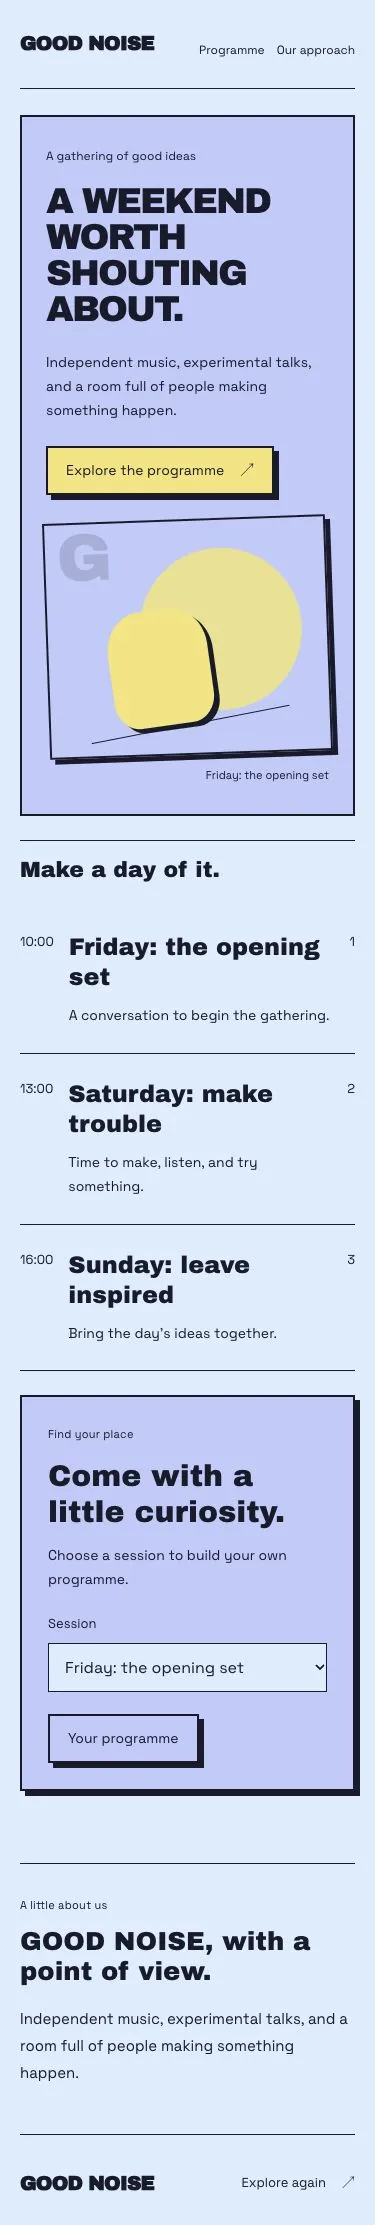
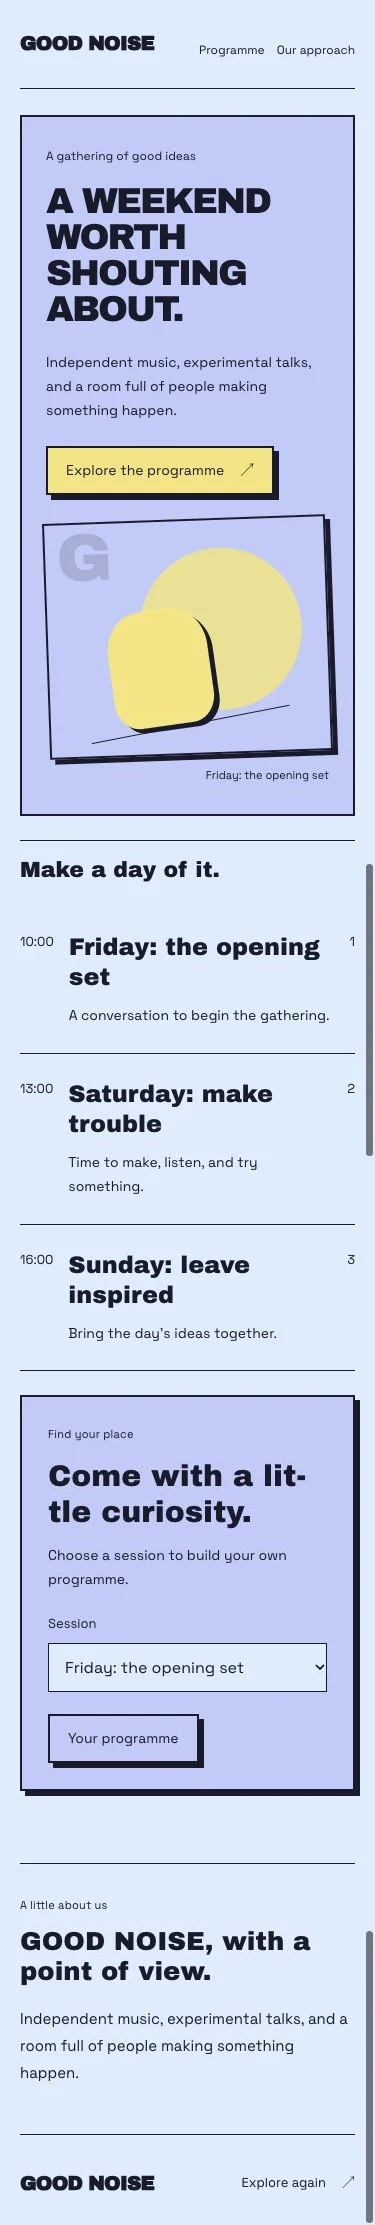
Refresh neo-brutalism references and synchronize its reusable skill assets.

diff --git a/skills/designkit-neo-brutalism/assets/shared/KitControls.tsx b/skills/designkit-neo-brutalism/assets/shared/KitControls.tsx
@@ -1,11 +1,14 @@
 "use client";
-
 import {
   useEffect,
   useId,
   useRef,
+  useState,
   type ButtonHTMLAttributes,
   type InputHTMLAttributes,
+  type HTMLAttributes,
+  type DialogHTMLAttributes,
+  type MouseEvent,
   type ReactNode,
 } from "react";
 
@@ -26,15 +29,16 @@ export function KitCard({
   label,
   children,
   action,
-}: {
-  title: string;
-  label?: string;
-  children?: ReactNode;
+  className = "",
+  ...props
+}: Omit<HTMLAttributes<HTMLElement>, "title"> & {
+  title: ReactNode;
+  label?: ReactNode;
   action?: ReactNode;
 }) {
   return (
-    <article className="kit-card">
-      <span className="kit-label">{label}</span>
+    <article {...props} className={`kit-card ${className}`}>
+      {label ? <span className="kit-label">{label}</span> : null}
       <h3>{title}</h3>
       {children}
       {action ? <div className="kit-card-action">{action}</div> : null}
@@ -44,18 +48,38 @@ export function KitCard({
 export function KitNavigation({
   brand,
   links,
-}: {
+  onNavigate,
+  className = "",
+  ...props
+}: HTMLAttributes<HTMLElement> & {
   brand: string;
   links: { label: string; href: string }[];
+  onNavigate?: (href: string, event: MouseEvent<HTMLAnchorElement>) => void;
 }) {
   return (
-    <nav className="kit-navigation" aria-label={`${brand} example navigation`}>
-      <a className="kit-brand" href={links[0]?.href}>
-        {brand}
-      </a>
+    <nav
+      {...props}
+      className={`kit-navigation ${className}`}
+      aria-label={props["aria-label"] || `${brand} navigation`}
+    >
+      {links[0]?.href ? (
+        <a
+          className="kit-brand"
+          href={links[0].href}
+          onClick={(event) => onNavigate?.(links[0].href, event)}
+        >
+          {brand}
+        </a>
+      ) : (
+        <span className="kit-brand">{brand}</span>
+      )}
       <div>
-        {links.map((link) => (
-          <a key={link.label} href={link.href}>
+        {links.map((link, index) => (
+          <a
+            key={`${link.href}:${index}`}
+            href={link.href}
+            onClick={(event) => onNavigate?.(link.href, event)}
+          >
             {link.label}
           </a>
         ))}
@@ -69,16 +93,20 @@ export function KitField({
   id,
   ...props
 }: InputHTMLAttributes<HTMLInputElement> & { label: string; error?: string }) {
-  const generated = useId();
-  const fieldId = id || generated;
+  const generated = useId(),
+    fieldId = id || generated;
+  const describedBy =
+    [props["aria-describedby"], error ? `${fieldId}-error` : undefined]
+      .filter(Boolean)
+      .join(" ") || undefined;
   return (
     <div className="kit-field">
       <label htmlFor={fieldId}>{label}</label>
       <input
         {...props}
         id={fieldId}
-        aria-invalid={Boolean(error)}
-        aria-describedby={error ? `${fieldId}-error` : undefined}
+        aria-invalid={error ? true : props["aria-invalid"]}
+        aria-describedby={describedBy}
       />
       {error ? (
         <p id={`${fieldId}-error`} className="kit-field-error">
@@ -91,43 +119,100 @@ export function KitField({
 export function KitStatus({
   state,
   children,
-}: {
+  className = "",
+  ...props
+}: HTMLAttributes<HTMLParagraphElement> & {
   state: "loading" | "empty" | "error" | "success";
-  children: ReactNode;
 }) {
   return (
     <p
-      className={`kit-status kit-status-${state}`}
-      role={state === "error" ? "alert" : "status"}
+      {...props}
+      className={`kit-status kit-status-${state} ${className}`}
+      role={props.role || (state === "error" ? "alert" : "status")}
     >
       {children}
     </p>
   );
 }
+const bodyLocks = new WeakMap<
+  HTMLElement,
+  { count: number; overflow: string }
+>();
+function lockBody(body: HTMLElement) {
+  const lock = bodyLocks.get(body) || {
+    count: 0,
+    overflow: body.style.overflow,
+  };
+  lock.count++;
+  bodyLocks.set(body, lock);
+  body.style.overflow = "hidden";
+  let released = false;
+  return () => {
+    if (released) return;
+    released = true;
+    lock.count--;
+    if (!lock.count) {
+      body.style.overflow = lock.overflow;
+      bodyLocks.delete(body);
+    }
+  };
+}
+type KitDialogProps = Omit<
+  DialogHTMLAttributes<HTMLDialogElement>,
+  "title" | "open"
+> & { title: ReactNode; trigger: ReactNode } & (
+    | { open?: undefined; onOpenChange?: (open: boolean) => void }
+    | { open: boolean; onOpenChange: (open: boolean) => void }
+  );
 export function KitDialog({
   trigger,
   title,
   children,
-}: {
-  trigger: string;
-  title: string;
-  children: ReactNode;
-}) {
-  const dialog = useRef<HTMLDialogElement>(null);
-  const opener = useRef<HTMLButtonElement>(null);
-  const previousOverflow = useRef<string | null>(null);
-  const titleId = useId();
-  const restore = () => {
-    if (previousOverflow.current !== null) {
-      document.body.style.overflow = previousOverflow.current;
-      previousOverflow.current = null;
-    }
-    opener.current?.focus({ preventScroll: true });
+  open,
+  onOpenChange,
+  className = "",
+  onClose,
+  onCancel,
+  ...props
+}: KitDialogProps) {
+  const dialog = useRef<HTMLDialogElement>(null),
+    opener = useRef<HTMLButtonElement>(null);
+  const previousFocus = useRef<HTMLElement | null>(null),
+    release = useRef<(() => void) | null>(null);
+  const [internalOpen, setInternalOpen] = useState(false);
+  const isOpen = open ?? internalOpen,
+    titleId = useId();
+  const request = (next: boolean) => {
+    if (open === undefined) setInternalOpen(next);
+    onOpenChange?.(next);
   };
+  const restore = () => {
+    release.current?.();
+    release.current = null;
+    const target = previousFocus.current?.isConnected
+      ? previousFocus.current
+      : opener.current;
+    if (target?.isConnected) target.focus({ preventScroll: true });
+    previousFocus.current = null;
+  };
+  useEffect(() => {
+    const element = dialog.current;
+    if (!element) return;
+    if (isOpen) {
+      if (!element.open) {
+        previousFocus.current ??=
+          document.activeElement instanceof HTMLElement
+            ? document.activeElement
+            : opener.current;
+        element.showModal();
+      }
+      if (!release.current) release.current = lockBody(document.body);
+    } else if (!isOpen && element.open) element.close();
+  }, [isOpen]);
   useEffect(
     () => () => {
-      if (previousOverflow.current !== null)
-        document.body.style.overflow = previousOverflow.current;
+      release.current?.();
+      release.current = null;
     },
     [],
   );
@@ -137,21 +222,27 @@ export function KitDialog({
         ref={opener}
         className="kit-button kit-button-secondary"
         type="button"
+        aria-haspopup="dialog"
         onClick={() => {
-          previousOverflow.current = document.body.style.overflow;
-          dialog.current?.showModal();
-          document.body.style.overflow = "hidden";
+          previousFocus.current = opener.current;
+          request(true);
         }}
       >
         {trigger}
       </button>
       <dialog
-        className="kit-dialog"
+        {...props}
+        className={`kit-dialog ${className}`}
         ref={dialog}
-        aria-labelledby={titleId}
-        onClose={restore}
+        aria-labelledby={props["aria-labelledby"] || titleId}
+        onCancel={(event) => onCancel?.(event)}
+        onClose={(event) => {
+          restore();
+          if (isOpen) request(false);
+          onClose?.(event);
+        }}
       >
-        <div>
+        <div className="kit-dialog-heading">
           <h3 id={titleId}>{title}</h3>
           <button
             type="button"

diff --git a/skills/designkit-neo-brutalism/assets/shared/ExampleCanvas.tsx b/skills/designkit-neo-brutalism/assets/shared/ExampleCanvas.tsx
@@ -1,6 +1,6 @@
 "use client";
 
-import { useId, useState, type CSSProperties } from "react";
+import { useId, useState, type CSSProperties, type MouseEvent } from "react";
 import type {
   DesignExample,
   PlaygroundSettings,
@@ -62,10 +62,19 @@ export default function ExampleCanvas({
     `${item.title} ${item.label}`.toLowerCase().includes(query.toLowerCase()),
   );
   const headline = normalized.headline;
-  const goToContent = () =>
-    document
-      .getElementById(sectionId)
-      ?.scrollIntoView({ behavior: "instant", block: "start" });
+  const focusSection = (id: string) => {
+    const target = document.getElementById(id);
+    target?.scrollIntoView({ behavior: "instant", block: "start" });
+    target?.focus({ preventScroll: true });
+  };
+  const navigateWithinExample = (
+    href: string,
+    event: MouseEvent<HTMLAnchorElement>,
+  ) => {
+    event.preventDefault();
+    focusSection(href.slice(1));
+  };
+  const goToContent = () => focusSection(sectionId);
   const contextLabel = {
     shop: "A considered collection",
     journal: "An independent journal",
@@ -90,6 +99,7 @@ export default function ExampleCanvas({
     >
       <KitNavigation
         brand={example.brand}
+        onNavigate={navigateWithinExample}
         links={[
           {
             label:
@@ -322,14 +332,17 @@ export default function ExampleCanvas({
           </>
         )}
       </section>
-      <section id={aboutId} className="kit-about">
+      <section id={aboutId} className="kit-about" tabIndex={-1}>
         <span className="kit-label">A little about us</span>
         <h3>{example.brand}, with a point of view.</h3>
         <p>{example.description}</p>
       </section>
       <footer className="kit-footer">
         <span className="kit-brand">{example.brand}</span>
-        <a href={`#${sectionId}`}>
+        <a
+          href={`#${sectionId}`}
+          onClick={(event) => navigateWithinExample(`#${sectionId}`, event)}
+        >
           Explore again <span aria-hidden="true">↗</span>
         </a>
       </footer>

diff --git a/skills/designkit-neo-brutalism/assets/shared/kit.css b/skills/designkit-neo-brutalism/assets/shared/kit.css
@@ -42,6 +42,7 @@
   font-family: var(--dk-heading), serif;
   font-synthesis: none;
   overflow-wrap: anywhere;
+  hyphens: auto;
 }
 .kit-canvas :is(button, a, input, select, textarea):focus-visible,
 .kit-component-surface :is(button, a, input, select, textarea):focus-visible {
@@ -353,6 +354,11 @@
   background: var(--dk-canvas);
 }
 .kit-dialog {
+  margin: auto;
+  max-height: calc(100dvh - 48px);
+  overflow: auto;
+  overscroll-behavior: contain;
+  overflow-wrap: anywhere;
   max-width: min(520px, calc(100vw - 40px));
   padding: 28px;
   color: var(--dk-ink);
@@ -365,7 +371,7 @@
 .kit-dialog::backdrop {
   background: rgb(0 0 0 / 0.45);
 }
-.kit-dialog > div {
+.kit-dialog-heading {
   display: flex;
   justify-content: space-between;
   gap: 20px;

diff --git a/skills/designkit-neo-brutalism/assets/shared/tokens.ts b/skills/designkit-neo-brutalism/assets/shared/tokens.ts
@@ -3,6 +3,7 @@ import type {
   PlaygroundSettings,
   StyleRecipe,
 } from "./types";
+import { kitVersion } from "./types";
 
 export const fontFamilies = [
   "Archivo Black",
@@ -258,7 +259,7 @@ export function exportDesignTokens(
       "dev.designkit": {
         exampleId: example.id,
         styleId: example.styleId,
-        version: "2.0.0",
+        version: kitVersion,
         settings,
         cssShadow: values["--dk-shadow"],
       },
